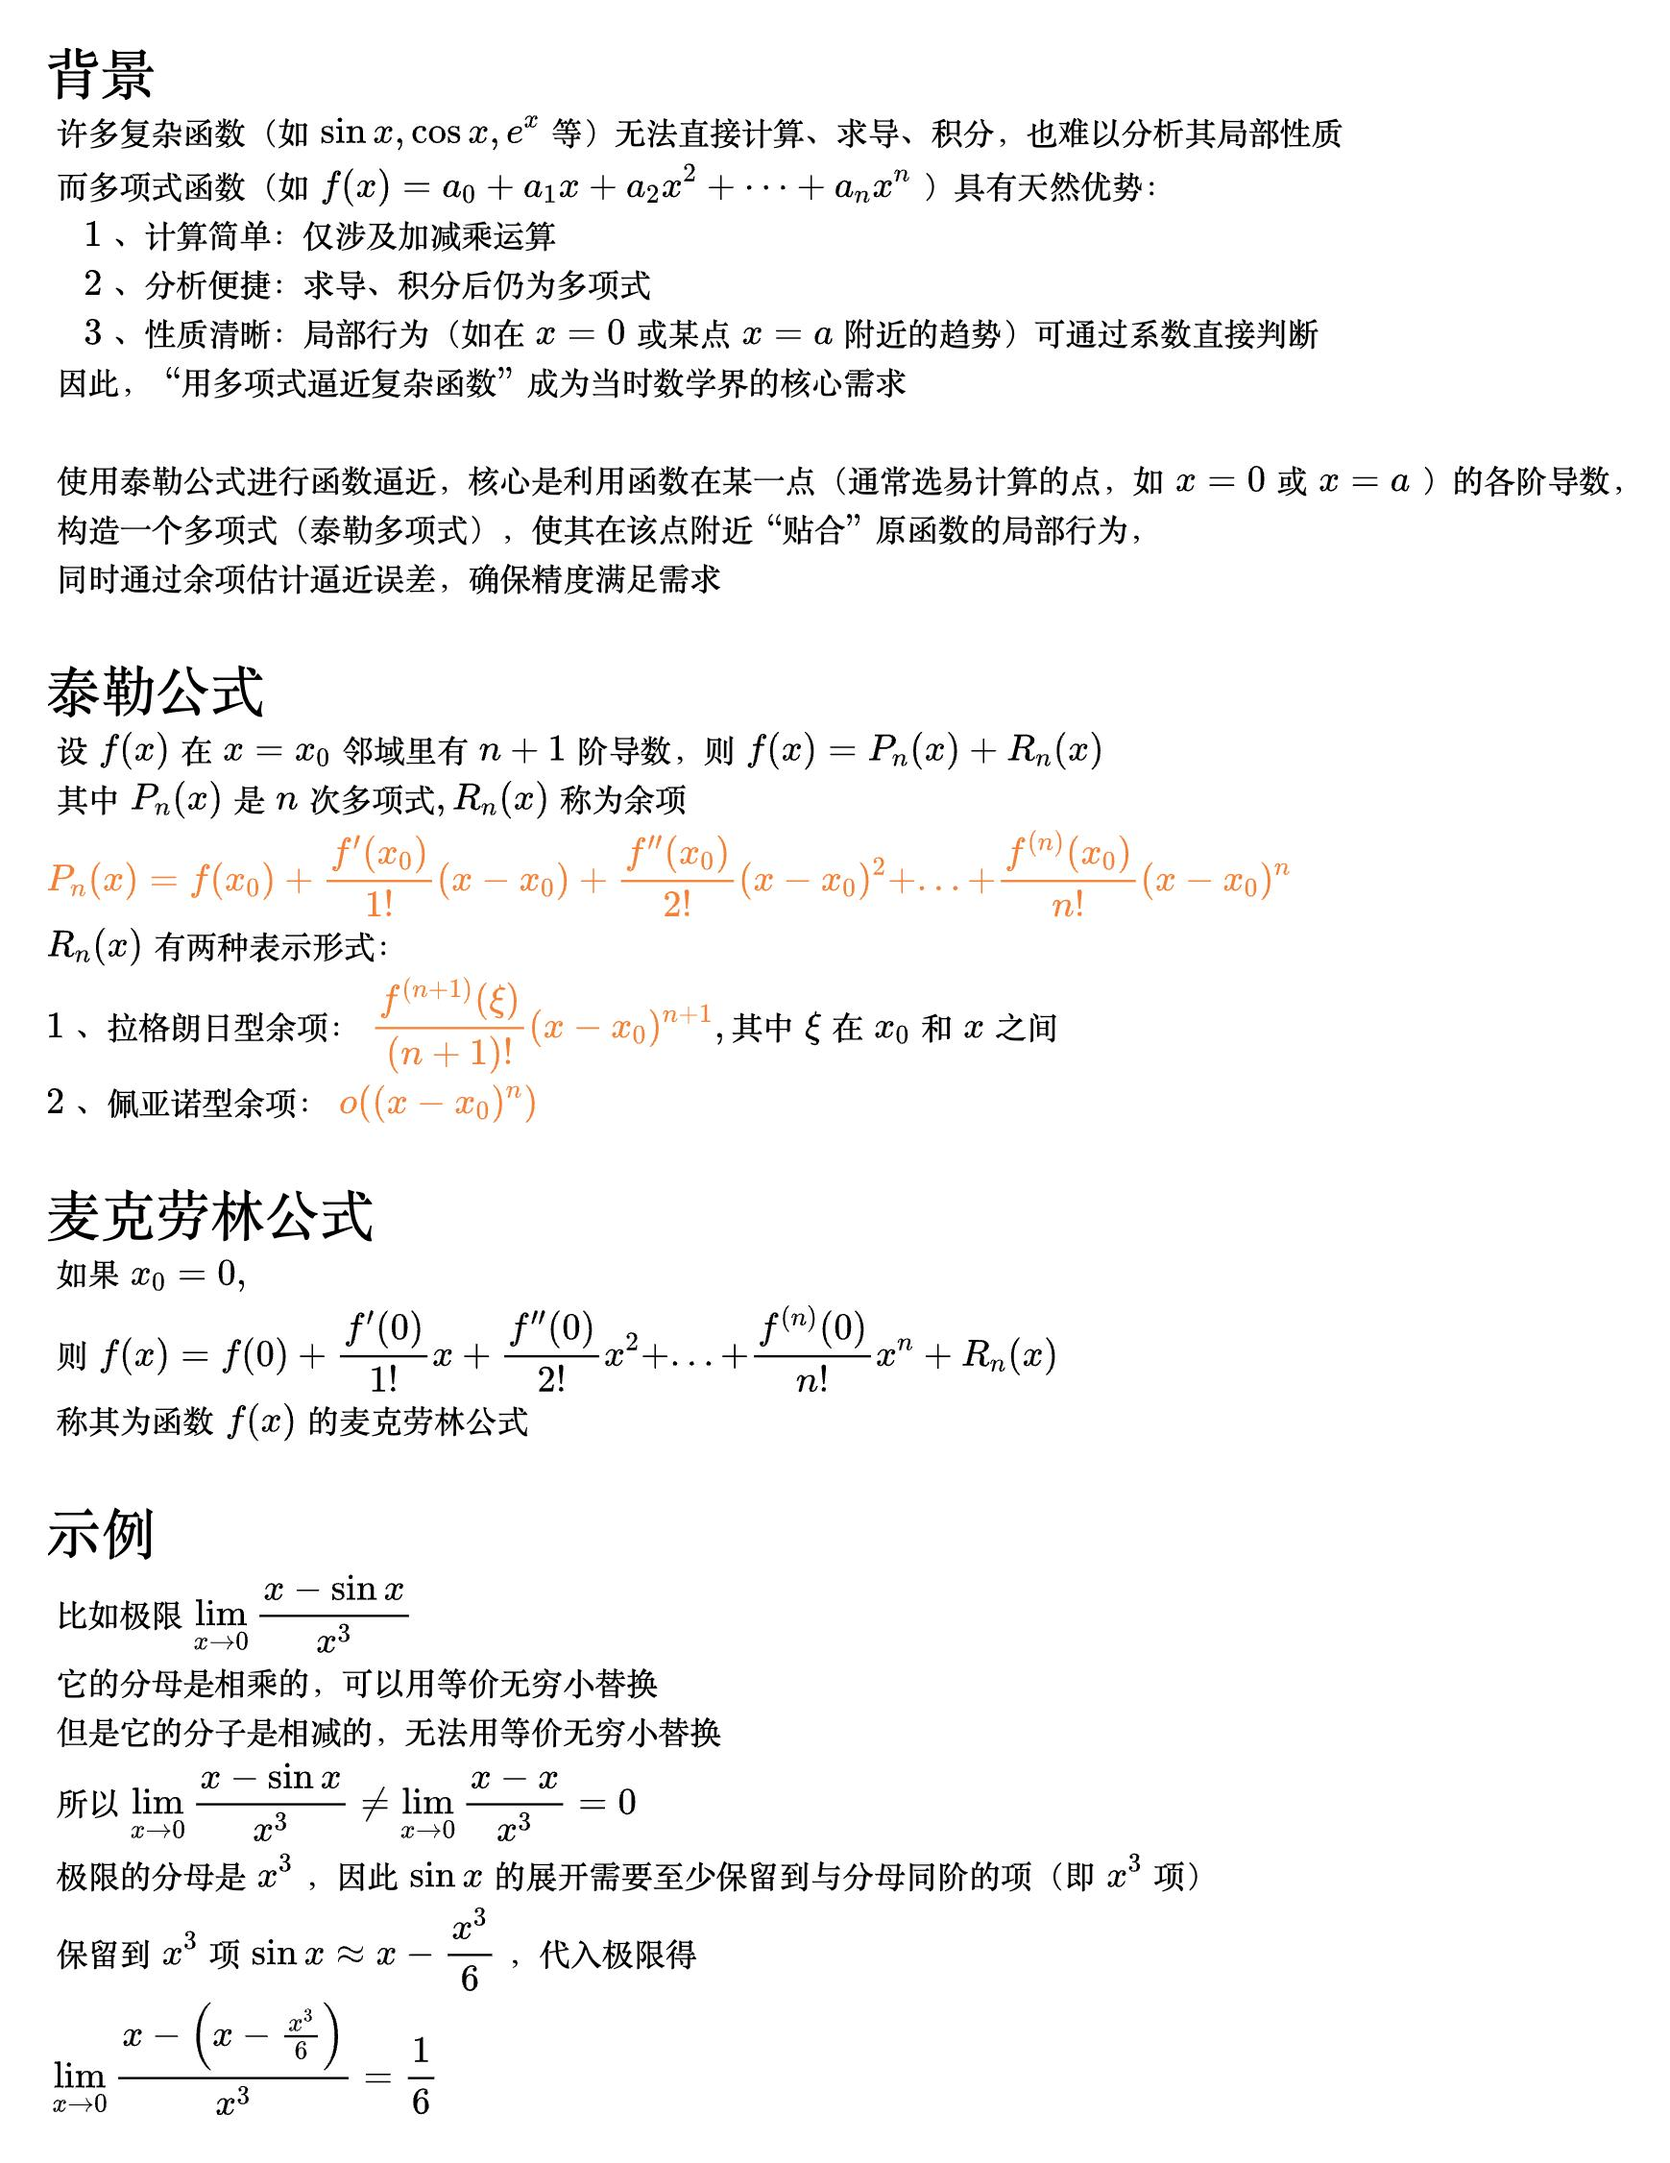
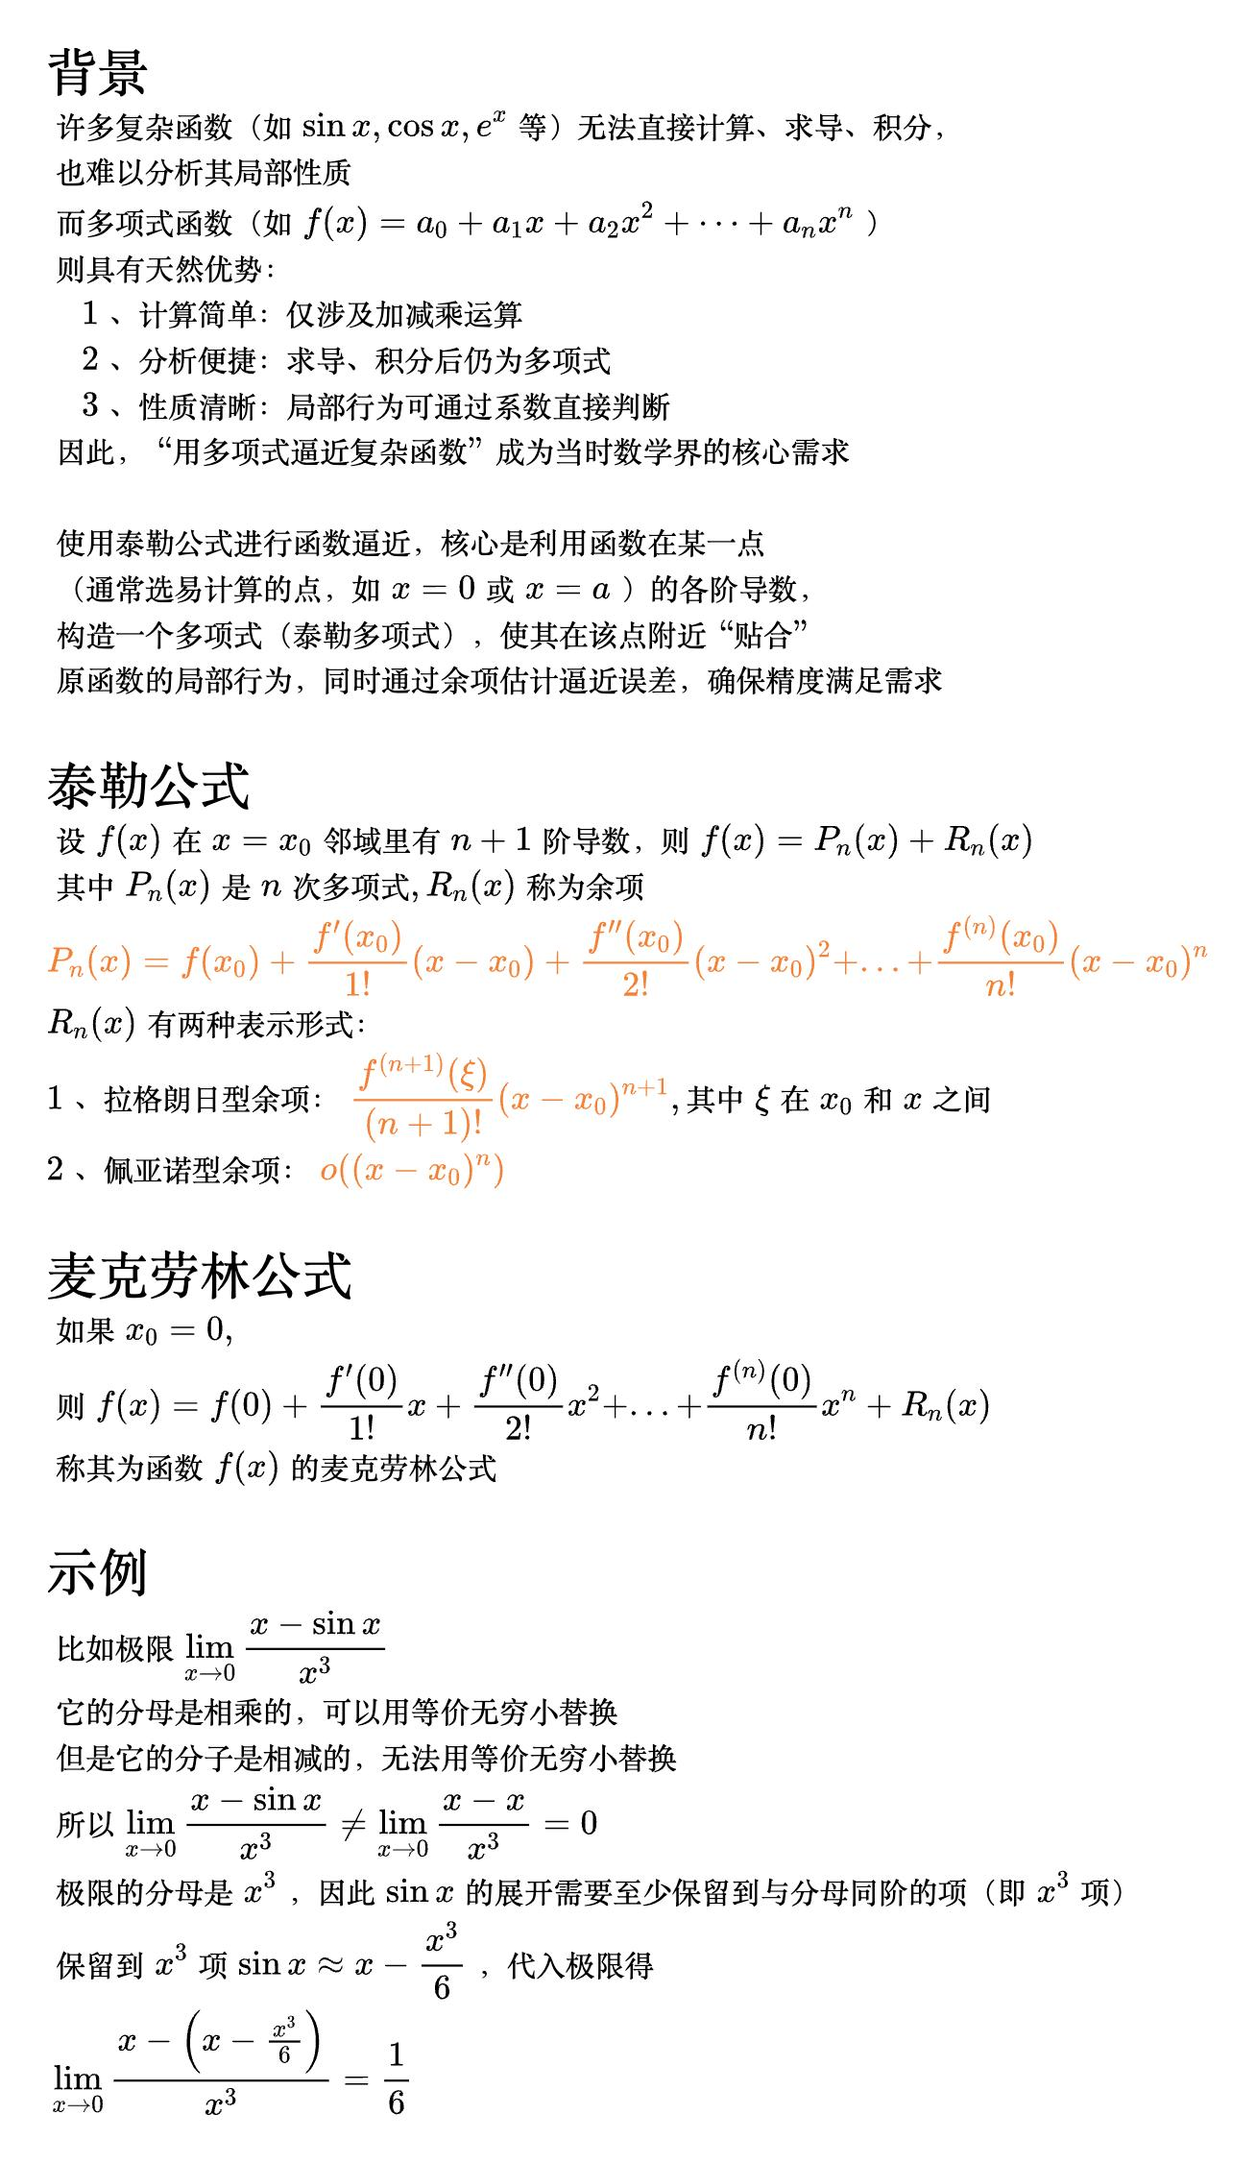
1

diff --git a/base/math/src/further_mathematics/mean_value_theorem.md b/base/math/src/further_mathematics/mean_value_theorem.md
@@ -399,16 +399,19 @@ plt.show()
 <!--
 \begin{align}
 & {\LARGE 背景} \\
-& 许多复杂函数（如 \sin x, \cos x, e^x 等）无法直接计算、求导、积分，也难以分析其局部性质 \\
-& 而多项式函数（如 f(x) = a_0 + a_1x + a_2x^2 + \dots + a_nx^n）具有天然优势：\\
+& 许多复杂函数（如 \sin x, \cos x, e^x 等）无法直接计算、求导、积分，\\
+& 也难以分析其局部性质 \\
+& 而多项式函数（如 f(x) = a_0 + a_1x + a_2x^2 + \dots + a_nx^n）\\
+& 则具有天然优势：\\
 & \quad 1、计算简单：仅涉及加减乘运算 \\
 & \quad 2、分析便捷：求导、积分后仍为多项式 \\
-& \quad 3、性质清晰：局部行为（如在 x=0 或某点 x=a 附近的趋势）可通过系数直接判断 \\
+& \quad 3、性质清晰：局部行为可通过系数直接判断 \\
 & 因此，“用多项式逼近复杂函数” 成为当时数学界的核心需求 \\
 \\
-& 使用泰勒公式进行函数逼近，核心是利用函数在某一点（通常选易计算的点，如 x=0 或 x=a）的各阶导数，\\
-& 构造一个多项式（泰勒多项式），使其在该点附近 “贴合” 原函数的局部行为，\\
-& 同时通过余项估计逼近误差，确保精度满足需求 \\
+& 使用泰勒公式进行函数逼近，核心是利用函数在某一点 \\
+& （通常选易计算的点，如 x=0 或 x=a）的各阶导数，\\
+& 构造一个多项式（泰勒多项式），使其在该点附近 “贴合” \\
+& 原函数的局部行为，同时通过余项估计逼近误差，确保精度满足需求 \\
 \\
 & {\LARGE 泰勒公式} \\
 & 设 f(x) 在 x = x_{0} 邻域里有 n+1 阶导数，则 f(x) = P_{n}(x) + R_{n}(x) \\
@@ -445,13 +448,21 @@ P_{n}(x) = f(x_{0}) + \frac{f'(x_{0})}{1!} (x - x_{0}) +
 
 <!--
 \begin{align}
-& 1、 \; e^{x} = 1 + x + ... + \frac{x^{n}}{n!} + o(x^{n}) \\
-& 2、 \; \sin x = x - \frac{x^{3}}{3!} + \frac{x^{5}}{5!} - ... + \frac{(-1)^{n} x^{2n + 1}}{(2n + 1)!} + o(x^{2n + 1}) \\
-& 3、 \; \cos x = 1 - \frac{x^{2}}{2!} + \frac{x^{4}}{4!} - ... + \frac{(-1)^{n} x^{2n}}{(2n)!} + o(x^{2n}) \\
-& 4、 \; 1 - x = 1 + x + ... + x^{n} + o(x^{n}) \\
-& 5、 \; 1 + x = 1 - x + x^{2} - ... + (-1)^{n} x^{n} + o(x^{n}) \\
-& 6、 \; \ln(1 + x) = x - \frac{x^{2}}{2} + \frac{x^{3}}{3} - ... + \frac{(-1)^{n - 1}x^{n}}{n} + o(x^{n}) \\
-& 7、 \; (1 + x)^{a} = 1 + ax + \frac{a(a - 1)x^{2}}{2!} + \frac{a(a - 1)(a- 2)x^{3}}{3!} + ... + o(x^{n}) \\
+& 1、e^{x} = 1+x+\frac{x^2}{2!}+\cdots+\frac{x^n}{n!}+o(x^n) \\
+\\
+& 2、\sin x = x-\frac{x^3}{3!}+\frac{x^5}{5!}-\frac{x^7}{7!}\cdots+
+\frac{(-1)^n}{(2n+1)!}x^{2n+1}+o(x^{2n+1}) \\
+\\
+& 3、\cos x = 1-\frac{x^2}{2!}+\frac{x^4}{4!}-\frac{x^6}{6!}\cdots+
+\frac{(-1)^{n}}{(2n)!}x^{2n}+o(x^{2n}) \\
+\\
+& 4、\frac{1}{1-x} = 1+x+x^2+\cdots+x^n+o(x^n) \\
+\\
+& 5、\frac{1}{1+x} = 1-x+x^2-x^3+\cdots+(-1)^nx^n+o(x^n) \\
+\\
+& 6、\ln(1+x) = x-\frac{x^2}{2}+\frac{x^3}{3}-\cdots+\frac{(-1)^{n-1}x^n}{n}+o(x^n) \\
+\\
+& 7、(1+x)^a = 1+ax+\frac{a(a-1)}{2!}x^2+\cdots+\frac{a(a-1)(a-2)\cdots(a-n+1)}{n!}x^n+o(x^n) \\
 \end{align}
 -->
 

diff --git a/programming/fe/src/SUMMARY.md b/programming/fe/src/SUMMARY.md
@@ -128,8 +128,6 @@
     - [ref和reactive的区别](./vue3/responsive/compare.md)
     - [toRefs](./vue3/responsive/to_refs.md)
   - [计算属性](./vue3/computed/computed.md)
-  - [watch](./vue3/watch/watch.md)
-    - [watchEffect](./vue3/watch/watch_effect.md)
   - [标签的ref属性](./vue3/watch/tag_ref.md)
     - [HTML标签](./vue3/watch/tag_ref_html.md)
     - [组件标签](./vue3/watch/tag_ref_com.md)
@@ -137,6 +135,8 @@
   - [props](./vue3/props/props.md)
     - [基本使用](./vue3/props/base.md)
     - [props默认值](./vue3/props/default.md)
+  - [watch](./vue3/watch/watch.md)
+    - [watchEffect](./vue3/watch/watch_effect.md)
   - [组件的生命周期](./vue3/lc.md)
   - [VueRouter](./vue3/route/route.md)
     - [路由模式](./vue3/route/mode.md)
@@ -162,6 +162,9 @@
     - [默认插槽](./vue3/slot/default.md)
     - [具名插槽](./vue3/slot/name.md)
     - [作用域插槽](./vue3/slot/scope.md)
+  - [部署](./vue3/deploy/deploy.md)
+    - [禁止手机浏览器缩放](./vue3/deploy/mobile.md)
+    - [nginx](./vue3/deploy/nginx.md)
 
 - [uni-app](./uniapp/uniapp.md)
   - [组件生命周期钩子](./uniapp/comp_hooks.md)

diff --git a/programming/fe/src/vue3/deploy/nginx.md b/programming/fe/src/vue3/deploy/nginx.md
@@ -1,0 +1,33 @@
+# nginx
+
+## vue 配置
+
+在 vite.config.js（Vite 项目）或 vue.config.js（Vue CLI 项目）中设置：
+
+```js
+// Vite 项目（vite.config.js）
+export default defineConfig({
+  base: "/my-app/", // 默认为 '/'，如果部署在子路径（如 http://domain/my-app），需改为 '/my-app/'
+  // ...
+});
+
+// Vue CLI 项目（vue.config.js）
+module.exports = {
+  publicPath: "/my-app/", // 同上，子路径需对应修改
+  // ...
+};
+```
+
+publicPath 的值需与 Nginx 中配置的 location 路径一致。例如：若 Nginx 部署在 /my-app 路径下，则 publicPath 必须设为 `/my-app/`，否则资源会被解析到错误路径（如 `/js/xxx.js` 而非 `/my-app/js/xxx.js`）。
+
+## nginx 配置
+
+```conf
+server {
+    location /my-app/ {
+        alias /usr/share/nginx/html/my-app/;
+        try_files $uri $uri/ /my-app/index.html;
+        index  index.html;
+    }
+}
+```

diff --git a/programming/fe/src/vue3/deploy/mobile.md b/programming/fe/src/vue3/deploy/mobile.md
@@ -1,0 +1,17 @@
+# 禁止手机浏览器缩放
+
+Vue3 项目在 iPhone 上输入时页面自动放大，是由于 Safari 浏览器的默认行为：当输入框（input/textarea）获得焦点时，若页面字体小于 16px，Safari 会自动放大页面以提高可读性。
+
+## 优化视口（viewport）配置
+
+```html
+<!-- index.html 中 -->
+<meta
+  name="viewport"
+  content="width=device-width, initial-scale=1.0, maximum-scale=1.0, user-scalable=no"
+/>
+```
+
+- `width=device-width` 确保页面宽度与设备宽度一致
+- `initial-scale=1.0` 初始缩放比例为 1
+- `maximum-scale=1.0` 和 `user-scalable=no` 禁止用户手动缩放（可选，根据需求决定是否开启）

diff --git a/os/src/macos/inst.md b/os/src/macos/inst.md
@@ -5,6 +5,7 @@
 ```
 QuickRec-Screen Recording
 bob
+PDFgear
 ```
 
 ## git

diff --git a/os/src/macos/i.md b/os/src/macos/i.md
@@ -1,1 +1,1 @@
-# 安装软件
+# 常用软件

diff --git a/programming/fe/src/vue3/deploy/deploy.md b/programming/fe/src/vue3/deploy/deploy.md
@@ -1,0 +1,1 @@
+# 部署
